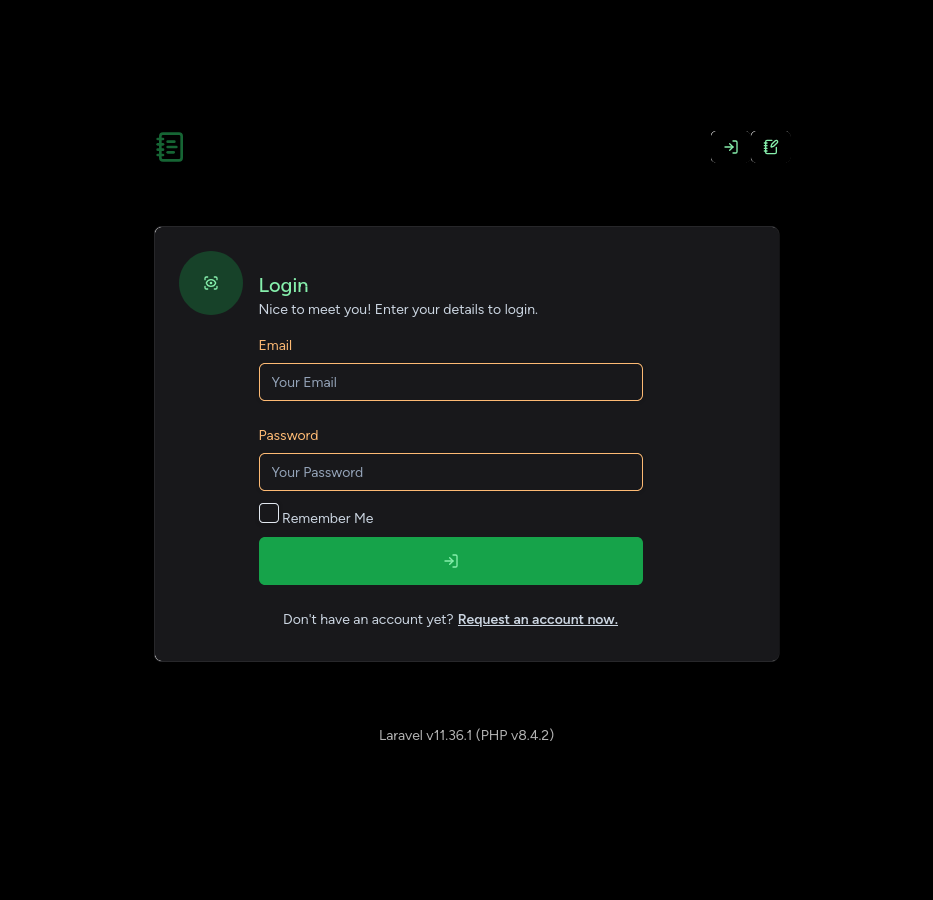
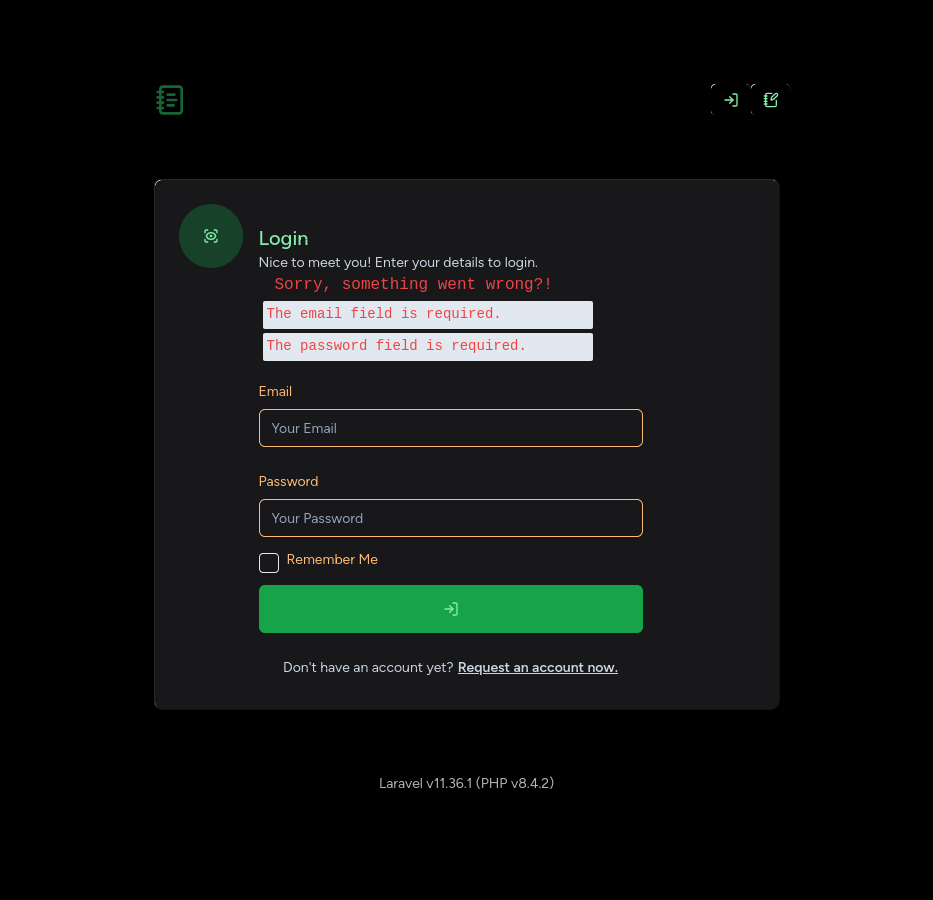
login development

Changed region(s): [[0.1554, 0.0933, 0.8392, 0.84], [0.7771, 0.0933, 0.8392, 0.1244]]

diff --git a/examples/thesis/resources/views/livewire/authentication/login.blade.php b/examples/thesis/resources/views/livewire/authentication/login.blade.php
@@ -7,45 +7,30 @@
         <p class="text-sm font-light text-slate-600 dark:text-slate-300">
             Nice to meet you! Enter your details to login.
         </p>
+        <x-samp.show-errors />
         <form method="POST" wire:submit="authentication" class="mt-4 mb-2 w-80 max-w-screen-lg sm:w-96">
             @csrf
             <div class="flex flex-col gap-6 mb-1">
                 {{-- <x-input.input-email wire:model="email" /> --}}
                 <div class="w-full max-w-sm min-w-[100px]">
-                    <label class="block mb-2 text-sm text-orange-600 dark:text-orange-300">
-                        Email
-                    </label>
-                    <input type="email" wire:model="email"
+                    <x-label.input-label for="email" value="{{ __('Email') }}" />
+                    <input id="email" type="email" wire:model="email"
                         class="px-3 py-2 w-full text-sm bg-transparent rounded-md border border-orange-600 shadow-sm transition duration-300 dark:border-orange-300 placeholder:text-slate-400 text-slate-700 dark:text-slate-300 ease focus:outline-none focus:border-slate-400 hover:border-slate-300 focus:shadow"
                         placeholder="Your Email" />
                 </div>
-                <div>
-                    @error('email')
-                        <span class="text-red-600">{{ $loginMessage }}</span>
-                    @enderror
-                </div>
                 {{-- <x-input.input-password wire:model="password" /> --}}
                 <div class="w-full max-w-sm min-w-[100px]">
-                    <label class="block mb-2 text-sm text-orange-600 dark:text-orange-300">
-                        Password
-                    </label>
-                    <input type="password" wire:model="password"
+                    <x-label.input-label for="password" value="{{ __('Password') }}" />
+                    <input id="password" type="password" wire:model="password"
                         class="px-3 py-2 w-full text-sm bg-transparent rounded-md border border-orange-600 shadow-sm transition duration-300 dark:border-orange-300 placeholder:text-slate-400 text-slate-700 dark:text-slate-300 ease focus:outline-none focus:border-slate-400 hover:border-slate-300 focus:shadow"
                         placeholder="Your Password" />
                 </div>
-                <div>
-                    @error('password')
-                        <span class="text-red-600">{{ $loginMessage }}</span>
-                    @enderror
-                </div>
             </div>
             <div class="inline-flex items-center my-2">
-                {{-- <x-checkbox.checkbox-remember-me wire:model="rememberMe" /> --}}
-                <label class="mr-4 mb-3 text-sm cursor-pointer text-slate-600 dark:text-slate-300" for="remember-me">
-                    <input id="remember-me" type="checkbox" value="bulletin_board" wire:model="rememberMe"
-                        class="w-5 h-5 rounded border shadow transition-all appearance-none cursor-pointer peer hover:shadow-md border-slate-200 checked:border-slate-800 checked:bg-green-300 checked:dark:bg-green-600">
-                    Remember Me
-                </label>
+                {{-- <x-checkbox.checkbox-remember-me :value="old('rememberMe')" /> --}}
+                <input id="rememberMe" type="checkbox" value="bulletin_board" wire:model="rememberMe"
+                    class="w-5 h-5 rounded border shadow transition-all appearance-none cursor-pointer peer hover:shadow-md border-slate-200 checked:border-slate-800 checked:bg-green-300 checked:dark:bg-green-600">
+                <x-label.input-label for="rememberMe" value="{{ __('Remember Me') }}" class="ml-2" />
             </div>
             <div class="w-full max-w-sm min-w-[100px]">
                 <x-button.button-login />

diff --git a/examples/thesis/resources/views/components/samp/show-errors.blade.php b/examples/thesis/resources/views/components/samp/show-errors.blade.php
@@ -1,0 +1,15 @@
+{{-- for example refer to it like this alias tag: <x-samp.show-errors /> --}}
+@if ($errors->any())
+    <div {{ $attributes }}>
+        <samp class="m-4 text-red-800 dark:text-red-500 text-md">
+            {{ __('Sorry, something went wrong?!') }}
+        </samp>
+        <samp class="mt-2">
+            <ul class="list-none">
+                @foreach ($errors->all() as $error)
+                    <li class="p-1 m-1 w-2/3 text-sm text-red-800 rounded-sm dark:text-red-500 bg-slate-200">{{ $error }}</li>
+                @endforeach
+            </ul>
+        </samp>
+    </div>
+@endif

diff --git a/examples/thesis/resources/views/components/button/button-login.blade.php b/examples/thesis/resources/views/components/button/button-login.blade.php
@@ -1,6 +1,7 @@
 {{-- refer to it like this alias tag: <x-button.button-login /> --}}
 <div>
-    <button class="flex justify-center items-center p-2 w-full h-12 bg-green-300 rounded-md dark:bg-green-600"
+    <button
+        class="flex justify-center items-center p-2 w-full h-12 bg-green-300 rounded-md dark:bg-green-600 hover:bg-green-300/50 hover:dark:bg-green-600/50"
         type="submit">
         <svg xmlns="http://www.w3.org/2000/svg" width="24" height="24" viewBox="0 0 24 24" fill="none"
             stroke="currentColor" stroke-width="2" stroke-linecap="round" stroke-linejoin="round"

diff --git a/examples/thesis/resources/views/components/checkbox/checkbox-remember-me.blade.php b/examples/thesis/resources/views/components/checkbox/checkbox-remember-me.blade.php
@@ -1,4 +1,6 @@
 {{-- refer to it like this alias tag: <x-checkbox.checkbox-remember-me /> --}}
+@props(['rememberMe' => false])
+
 <div>
     <label class="mr-4 mb-3 text-sm cursor-pointer text-slate-600 dark:text-slate-300" for="remember-me">
         <input id="remember-me" type="checkbox" value="bulletin_board"

diff --git a/examples/thesis/resources/views/components/label/input-label.blade.php b/examples/thesis/resources/views/components/label/input-label.blade.php
@@ -1,0 +1,6 @@
+{{-- for example refer to it like this alias tag: <x-label.input-label for="email" value="{{ __('Email') }}" /> --}}
+@props(['value'])
+
+<label {{ $attributes->merge(['class' => 'block mb-2 text-sm text-orange-600 dark:text-orange-300']) }}>
+    {{ $value ?? $slot }}
+</label>

diff --git a/examples/thesis/README.md b/examples/thesis/README.md
@@ -957,6 +957,8 @@ npm i @alpinejs/persist
 First I create the components that can be used both in registration and login:
 
 ```bash
+php artisan make:component Samp/ShowErrors --view
+php artisan make:component Label/InputLabel --view
 php artisan make:component Input/InputName --view
 php artisan make:component Input/InputEmail --view
 php artisan make:component Input/InputPassword --view
